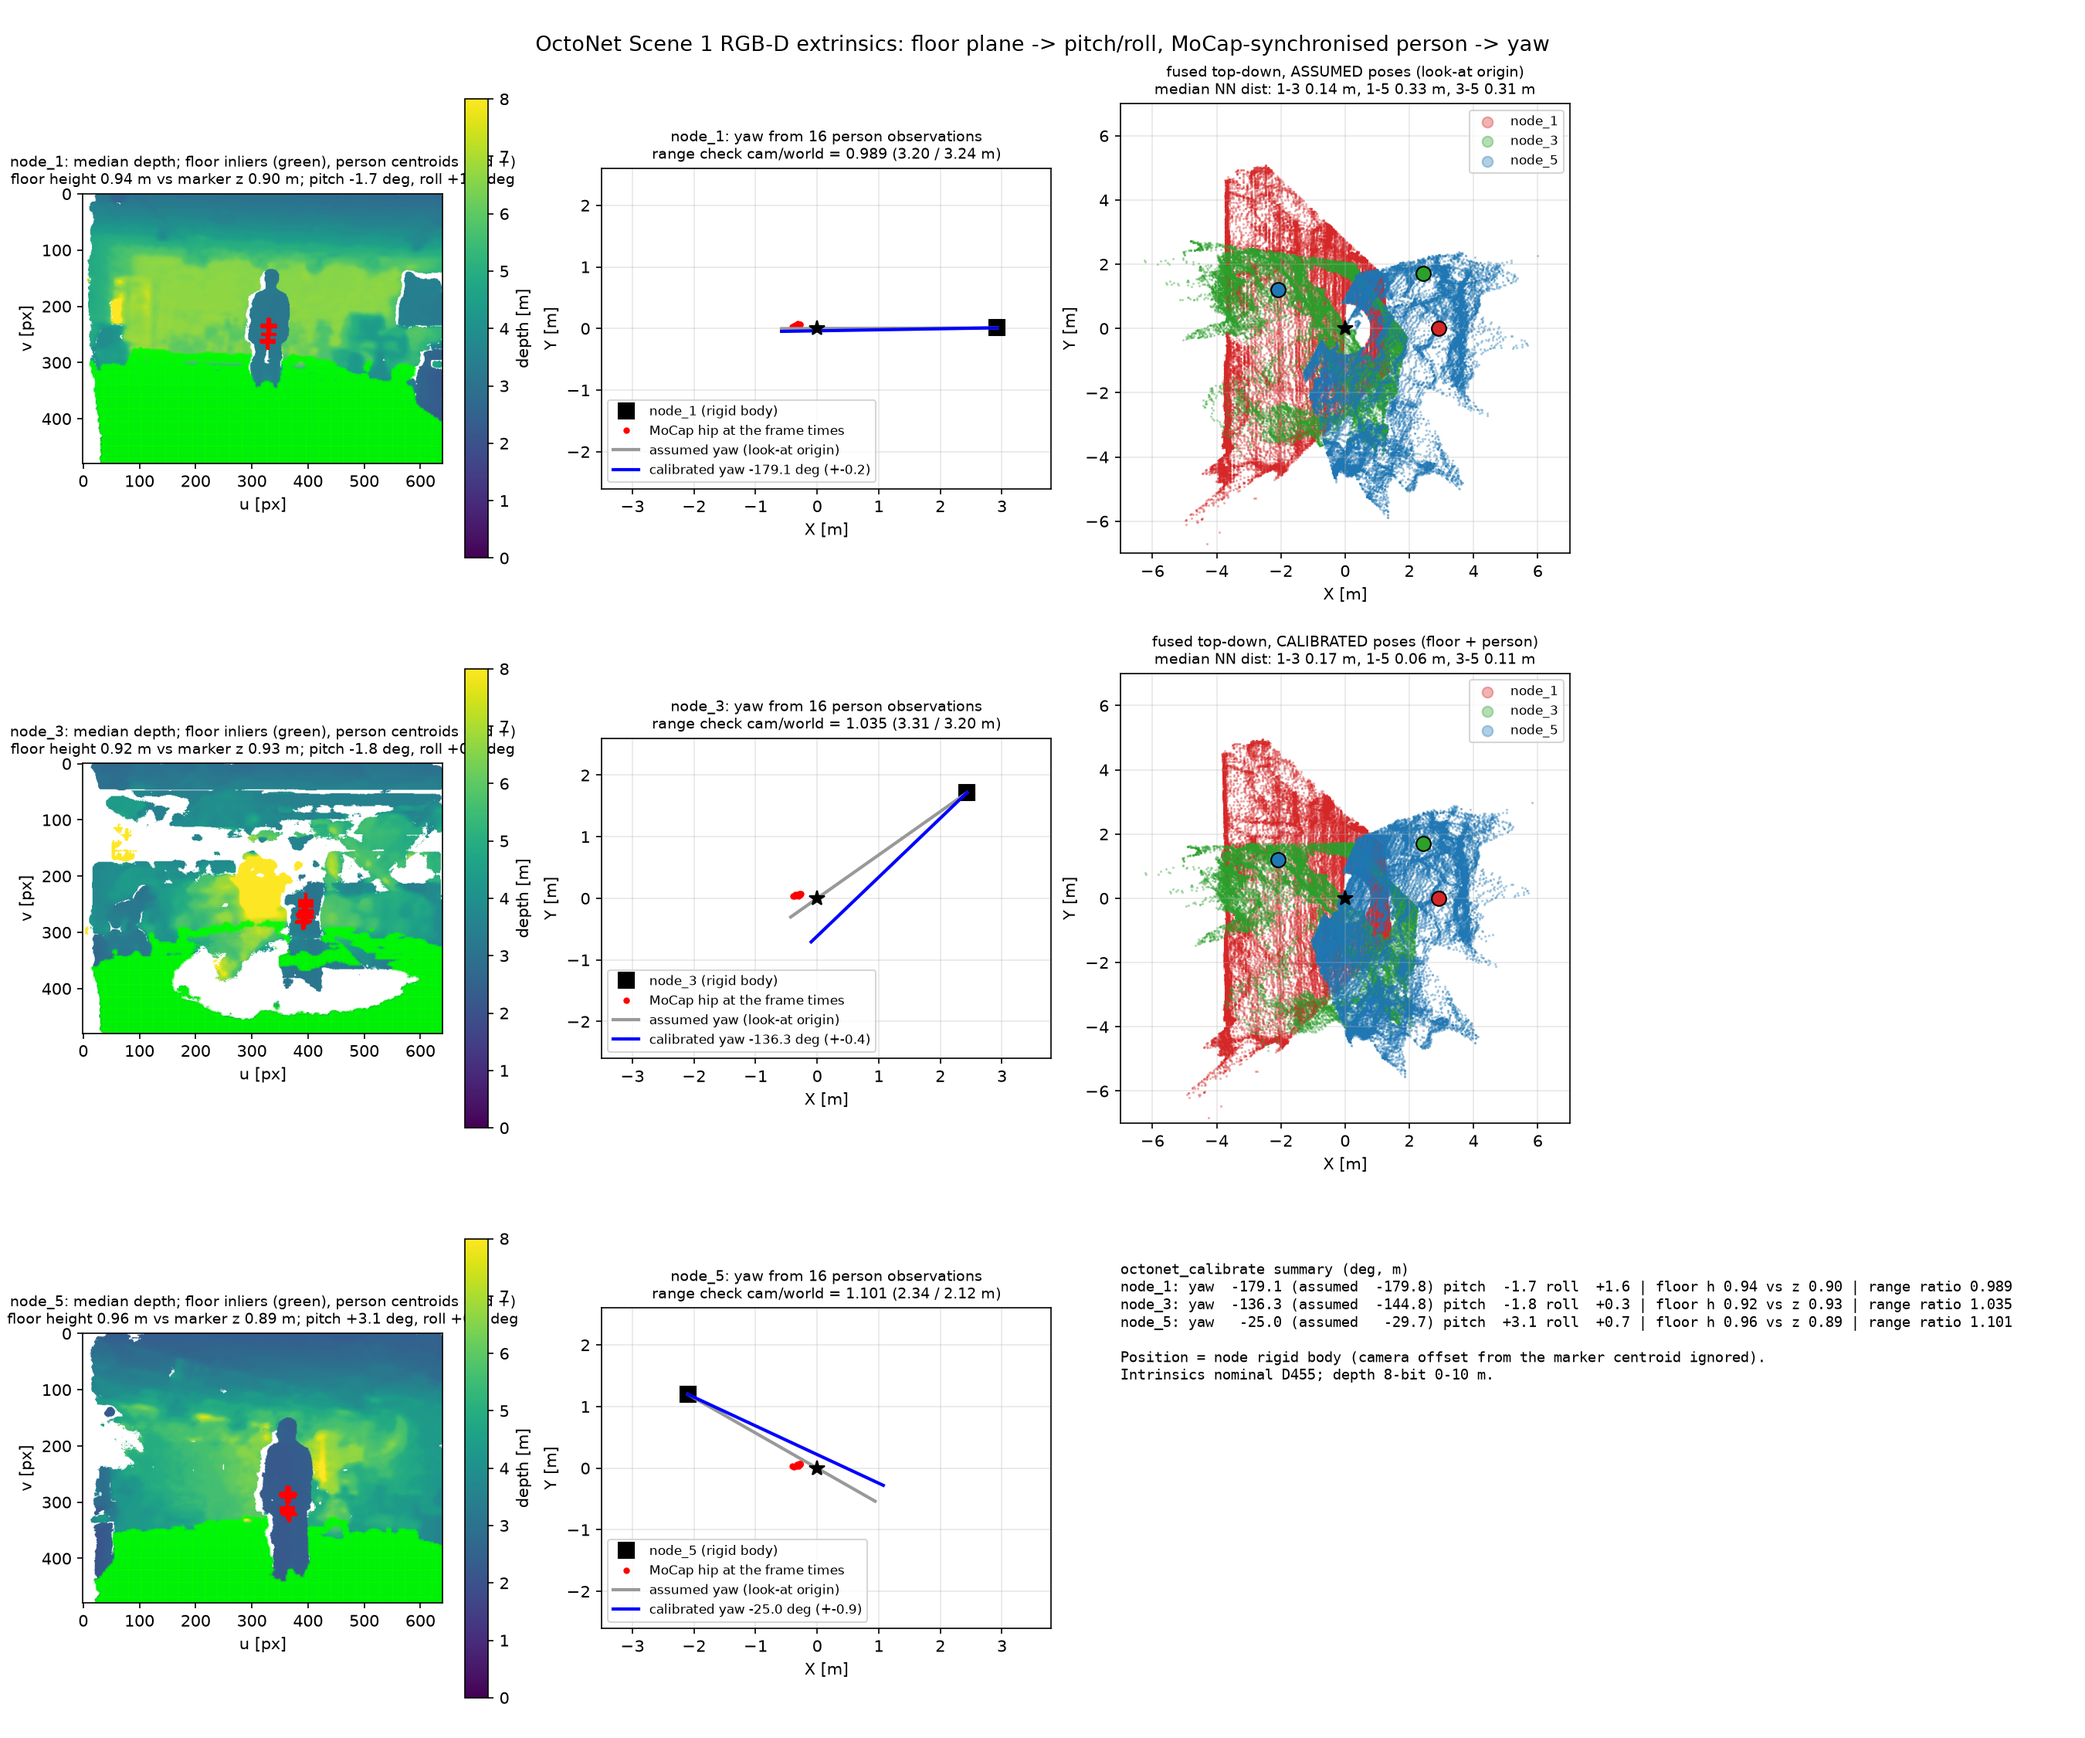
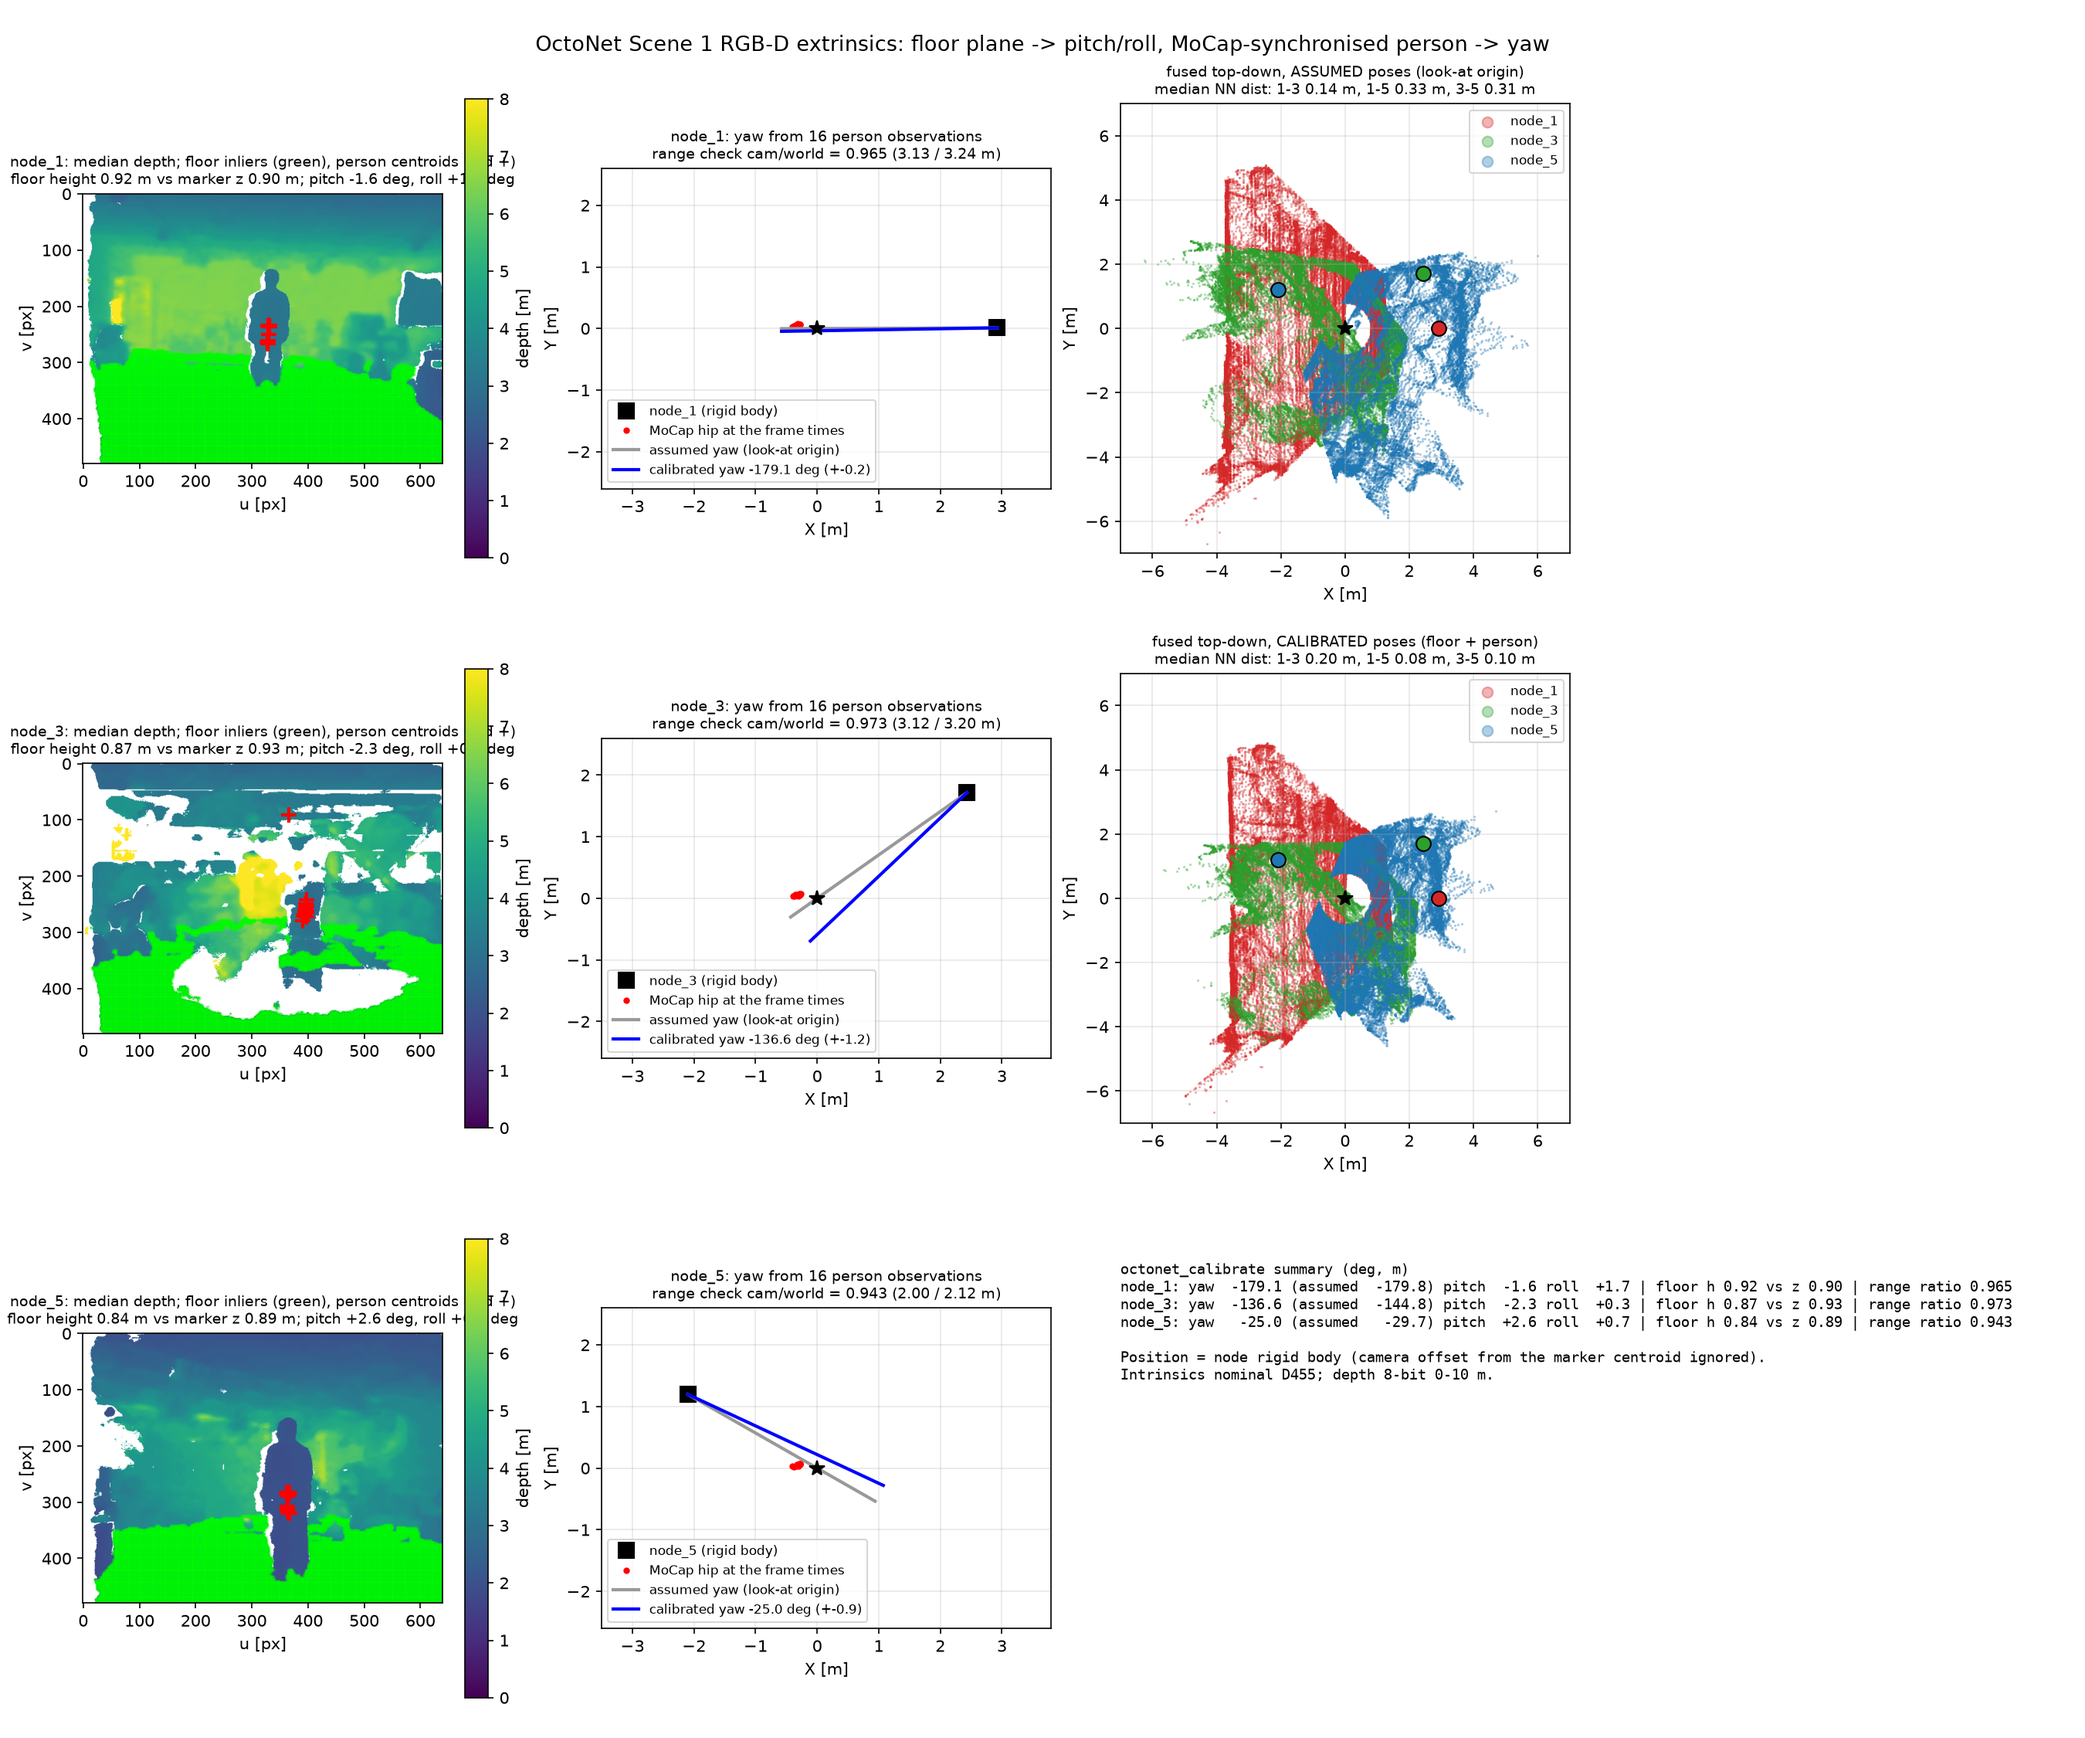
viz: apply the per-camera depth scale when building the scaffold

diff --git a/nbs/viz/geometry_init.py b/nbs/viz/geometry_init.py
@@ -24,7 +24,7 @@ OUT = os.path.join(REPO, "viz", "geometry_init")
 os.makedirs(OUT, exist_ok=True)
 POSE = S.pose_source()
 POSE_LABEL = {"assumed": "assumed extrinsics (node rigid-body position + look-at origin; no calibration)",
-              "calibrated": "calibrated extrinsics (octonet_calibrate: floor-plane pitch/roll + MoCap-synchronised person yaw; position = node rigid body)"}[POSE]
+              "calibrated": "calibrated extrinsics (octonet_calibrate: floor pitch/roll, MoCap-person yaw + per-camera depth scale; position = node rigid body + floor height)"}[POSE]
 DATA_OUT = os.path.join(os.environ.get("NBS_DATA_OUT", os.path.join(REPO, "data", "OctoNet")), f"scaffold_S1_{POSE}")
 os.makedirs(DATA_OUT, exist_ok=True)
 
@@ -50,7 +50,7 @@ def median_depth(node: int, rec: str):
     clip = S.depth_clip_dir(node, rec)
     frames = S.depth_frames(clip)
     sel = [frames[i] for i in np.linspace(0, len(frames) - 1, N_FRAMES).astype(int)]
-    stack = np.stack([S.load_depth_m(p) for p in sel])              # (F,H,W)
+    stack = np.stack([S.load_depth_m_calibrated(p, node) for p in sel])   # (F,H,W), per-camera depth scale divided out
     stack[stack <= 0] = np.nan
     med = np.nanmedian(stack, axis=0)
     valid = np.isfinite(stack).mean(0) >= 0.5

diff --git a/nbs/viz/render_vs_gt.py b/nbs/viz/render_vs_gt.py
@@ -48,7 +48,7 @@ def load_or_build_scaffold(n_max=20000):
     else:
         d = S.depth_clip_dir(1, S.REC_WALK); fr = S.depth_frames(d)
         sel = fr[:: max(1, len(fr) // 20)][:20]
-        z = np.median(np.stack([S.load_depth_m(f) for f in sel]), axis=0)
+        z = np.median(np.stack([S.load_depth_m_calibrated(f, 1) for f in sel]), axis=0)
         pcl = S.cam_to_world(S.backproject(z, stride=3), 1)
         src = f"node_1 depth temporal median of {len(sel)} frames of REC_WALK ({os.path.basename(d)}), nominal D455 intrinsics, " + POSE_LABEL
     r_xy = np.linalg.norm(pcl[:, :2], axis=1)
